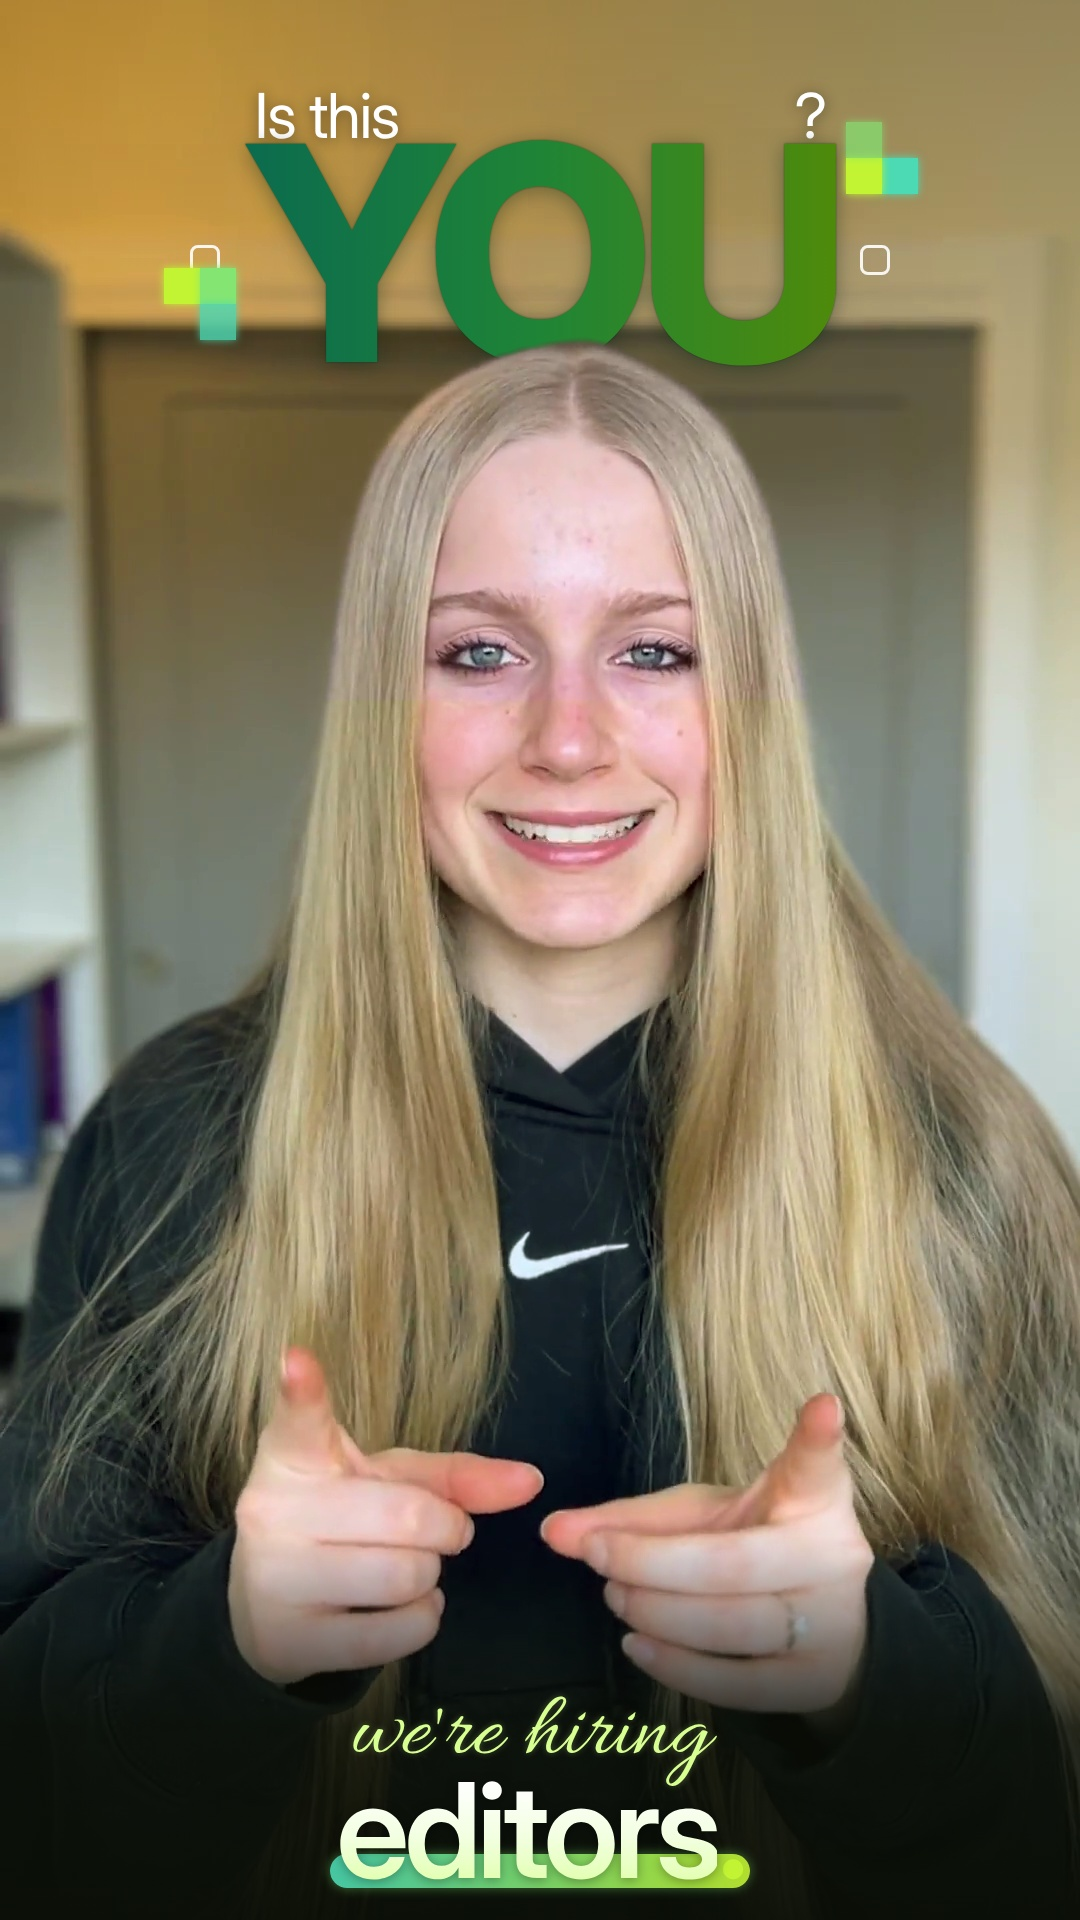
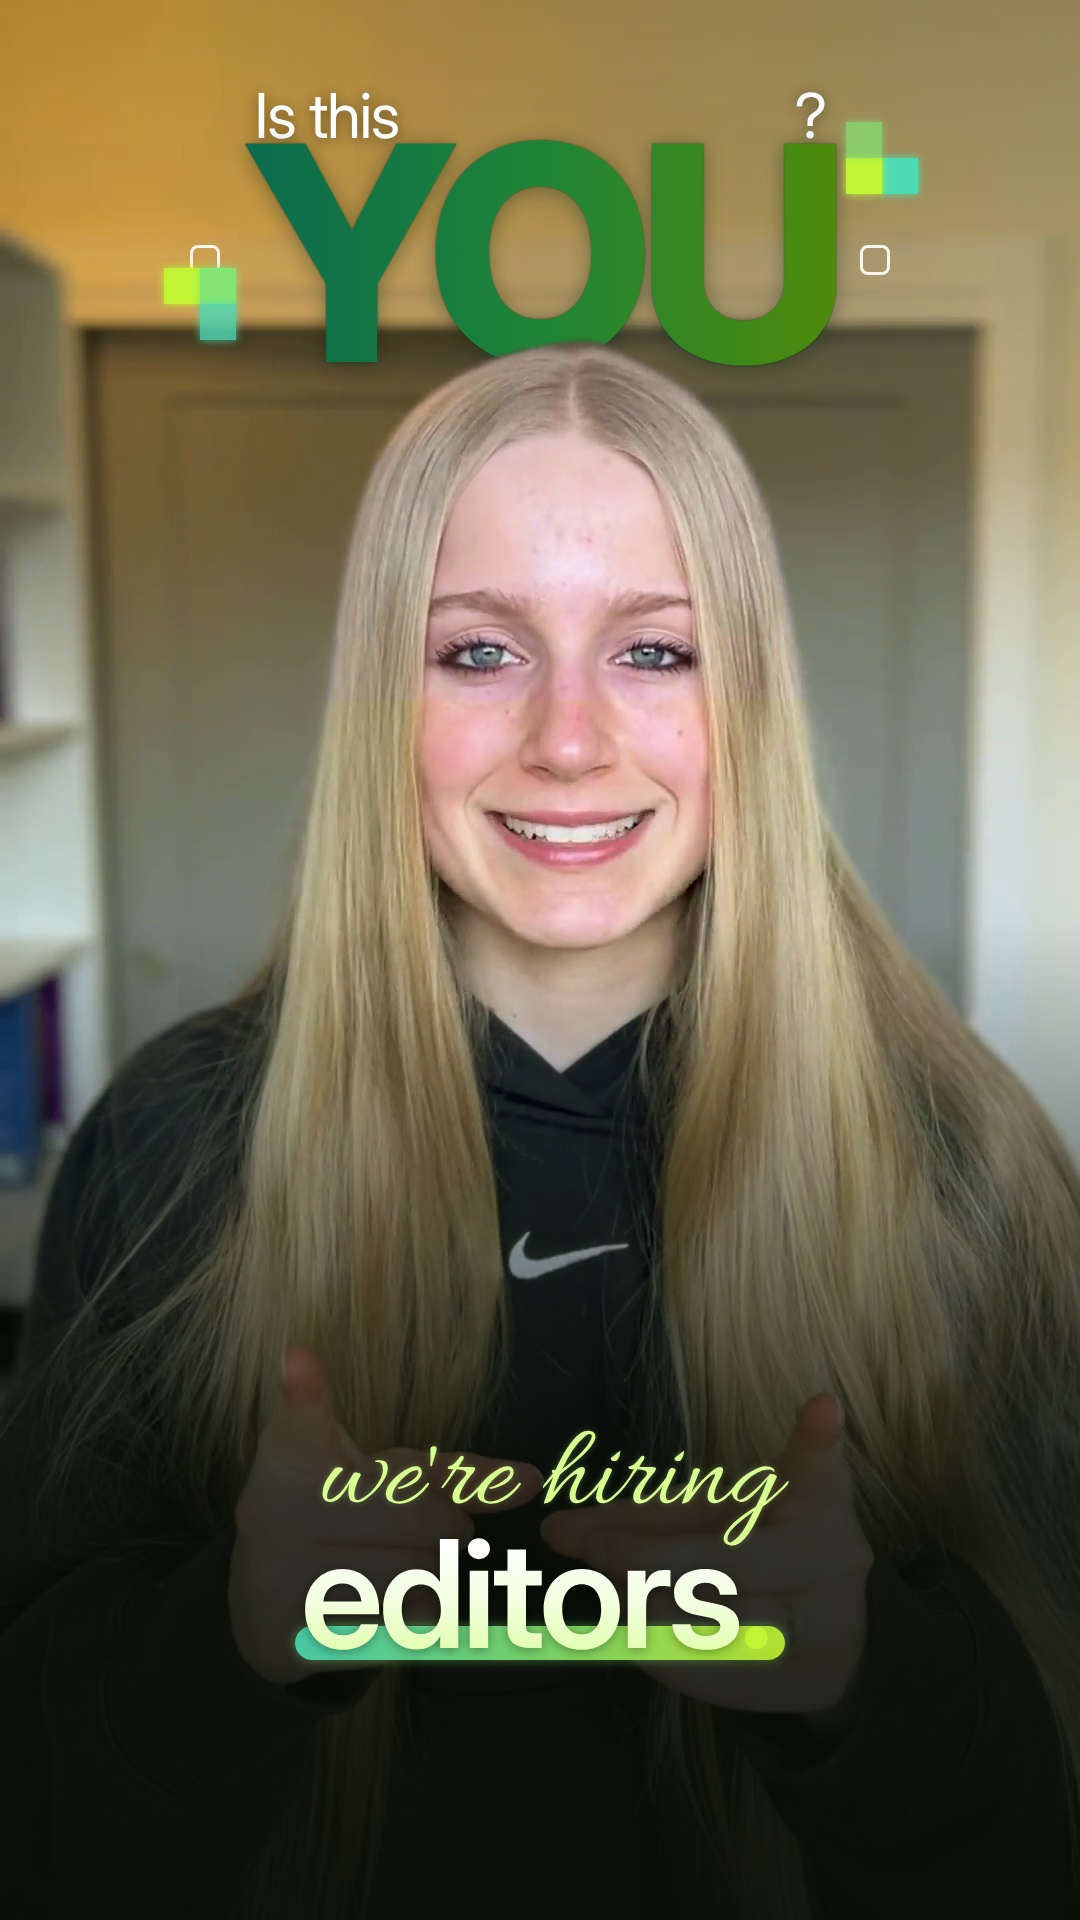
Ava Jurgens edit: thumbnail 2 caption moved to the lower third
Claude-Session: https://claude.ai/code/session_01YWNjHAXxpbDEgDEXxmNpyz

Changed region(s): [[0.0, 0.5, 1.0, 1.0], [0.5194, 0.625, 0.5806, 0.6562]]

diff --git a/edits/ava_jurgens/thumbnail/thumbnail2_is_this_you.html b/edits/ava_jurgens/thumbnail/thumbnail2_is_this_you.html
@@ -10,11 +10,11 @@ body{width:1080px;height:1920px;overflow:hidden;font-family:'Inter Display',Inte
  -webkit-background-clip:text;color:transparent;filter:drop-shadow(0 3px 10px rgba(11,42,23,.28)) drop-shadow(0 0 1px rgba(11,42,23,.6))}
 .hd{position:absolute;width:30px;height:30px;border-radius:8px;border:3px solid rgba(255,255,255,.9);top:50%;margin-top:-8px}
 .px{position:absolute;width:36px;height:36px;box-shadow:0 0 8px currentColor}
-.cap{position:absolute;left:0;right:0;bottom:22px;text-align:center}
+.cap{position:absolute;left:0;right:0;bottom:250px;text-align:center}
 .c1{font-weight:300;font-size:58px;letter-spacing:-1.5px;line-height:1.1}
 .blk{display:inline-block;text-align:left}
-.c2{font-family:Allura;font-size:92px;line-height:.9;color:#D8FF92;margin:0 0 -14px 14px;filter:drop-shadow(0 0 3px rgba(216,255,146,.3))}
-.c3{font-weight:600;font-size:132px;letter-spacing:-5px;line-height:1.02;position:relative;isolation:isolate}
+.c2{font-family:Allura;font-size:118px;line-height:.9;color:#D8FF92;margin:0 0 -18px 18px;filter:drop-shadow(0 0 3px rgba(216,255,146,.3))}
+.c3{font-weight:600;font-size:150px;letter-spacing:-5px;line-height:1.02;position:relative;isolation:isolate}
 .c3 .g{background:linear-gradient(180deg,#FFFFFF 20%,#F2FFE0 55%,#D8FF92 100%);-webkit-background-clip:text;color:transparent;filter:drop-shadow(0 2px 6px rgba(0,0,0,.35))}
 .dot{color:#C2F433}
 .hbar{position:absolute;left:-6px;right:-6px;bottom:10px;height:34px;border-radius:17px;background:linear-gradient(90deg,#4CDAB4,#84E572 50%,#C2F433);opacity:.9;z-index:-1;box-shadow:0 0 12px rgba(132,229,114,.5)}
@@ -25,7 +25,7 @@ body{width:1080px;height:1920px;overflow:hidden;font-family:'Inter Display',Inte
 </style></head><body>
 <img class="abs" src="frame_12.6s.png" style="width:1080px;height:1920px">
 <div class="abs" style="background:#7A963F;mix-blend-mode:soft-light;opacity:.35"></div>
-<div class="abs" style="background:linear-gradient(180deg,rgba(23,32,13,.2) 0%,rgba(23,32,13,0) 20%,rgba(23,32,13,0) 80%,rgba(10,14,6,.85) 90%,rgba(10,14,6,.96) 100%)"></div>
+<div class="abs" style="background:linear-gradient(180deg,rgba(23,32,13,.2) 0%,rgba(23,32,13,0) 20%,rgba(23,32,13,0) 48%,rgba(10,14,6,.82) 78%,rgba(10,14,6,.94) 100%)"></div>
 <div class="top"><div class="tw">
  <span class="tsm" style="left:20px">Is this</span><span class="tsm" style="right:20px">?</span>
  <span class="big">YOU</span>

diff --git a/edits/ava_jurgens/thumbnail/README.md b/edits/ava_jurgens/thumbnail/README.md
@@ -14,3 +14,5 @@
 - **Top:** "Is this · ?" in white and a 300 px deep-green **YOU** behind the top of her hair, with pixel clusters and handles.
 - **Bottom** (below her hands, so the pointing gesture stays clear): *we're hiring* (Allura, pale green) over **editors.** (white→pale
   gradient, lime dot, mint→lime highlight bar). This is the video's caption style.
+- **Update:** the caption has moved to the **lower third**, at the video's caption position (block bottom 250 px from the frame bottom). It is
+  shown at the video's caption size (Allura 118 px / heavy 150 px), over the video's lower-third grade.
